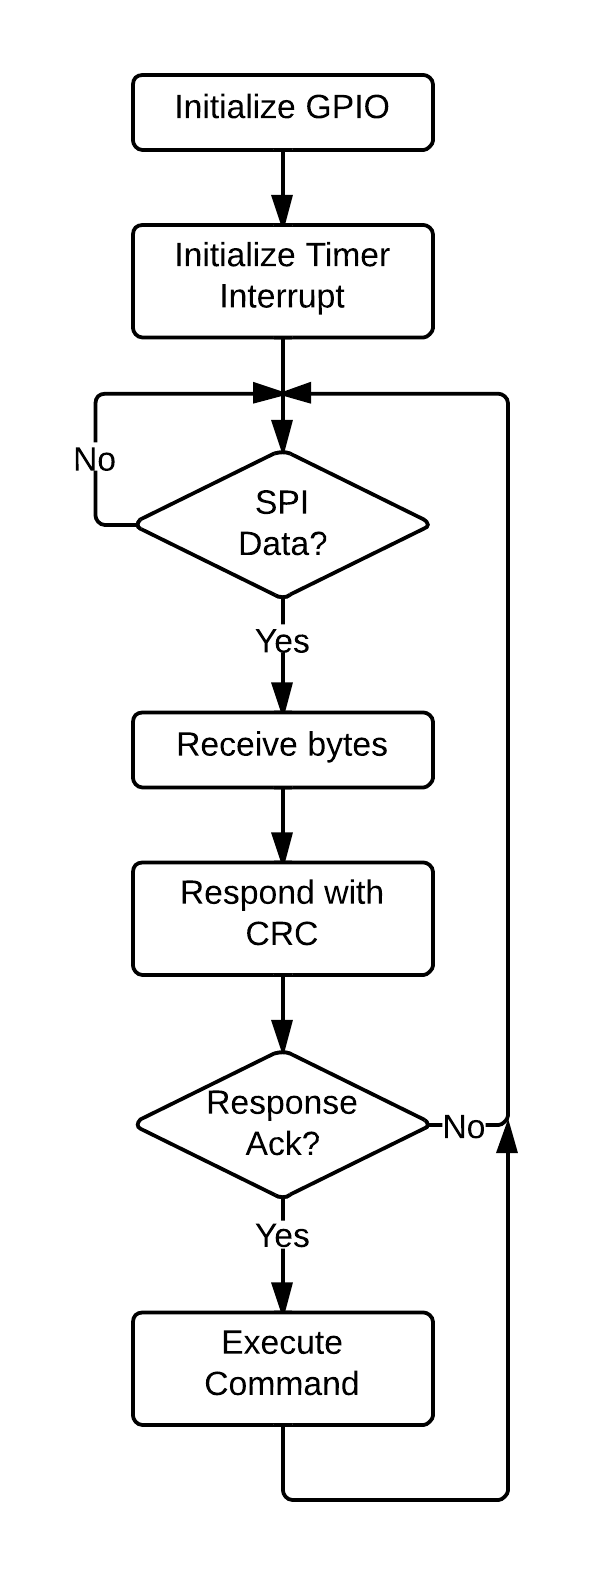
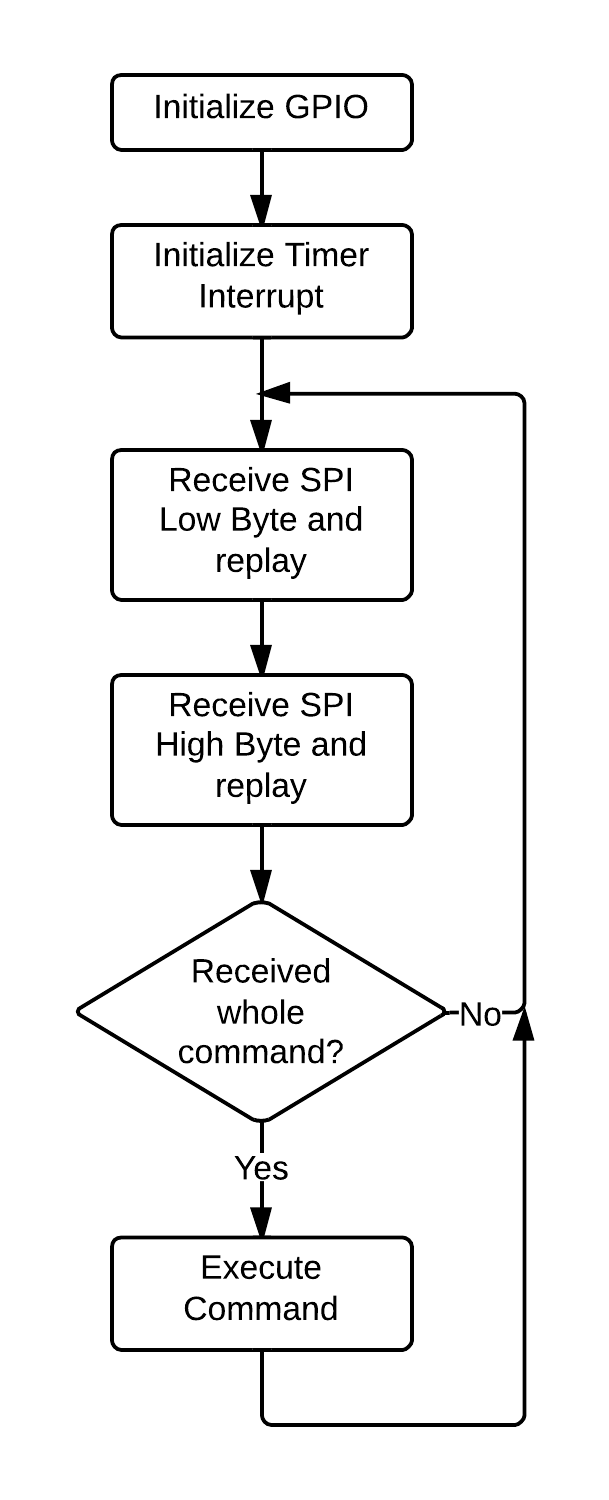
No more references to CRCs.

diff --git a/firmware-listing/firmware-listing.tex b/firmware-listing/firmware-listing.tex
@@ -63,7 +63,7 @@ The C2000 code base uses a combination of polling the \gls{spi} communication de
 A second interrupt is generated whenever the emergency stop line transitions from high-to-low or low-to-high, in which case all motor movement is stopped as quickly as possible.
 The pulse train generation is real-time and must execute code as soon as the auto-reloaded timer expires, so polling for \gls{spi} data can be preempted by the timer interrupt.
 An alternate design would be to use interrupt priority and allow the timer to interrupt the \gls{spi} interrupt, however a polling scheme is less risky and is easier to code.
-Because communication can be interrupted, the \gls{pi} will require the C2000 to respond back with a \gls{crc} to ensure that the entire communication block was received.
+Because communication can be interrupted, the \gls{pi} will require the C2000 to echo back sent data to ensure that the entire communication block was received.
 Figure~\ref{fig:c2000-main} depicts the polling loop for the C2000 and figure~\ref{fig:c2000-pulse} depicts the interrupt routine for the pulse train generation.
 
 \subsection{Raspberry Pi Code Architecture}
@@ -100,14 +100,14 @@ The g-code interpreter has been outlined, flow-charted, and approximately 90\% w
 \subsection{CNC Driver}
 The \gls{cnc} driver project is written in C and is responsible for managing communication channels between the \gls{pi} and C2000 through the \gls{spi} and \gls{uart}.
 The g-code interpreter does not write to the \gls{spi} or \gls{uart} directly because these actions require root privileges, so this project was created to allow a single, small program to run as root, while the larger, more frequently changing programs are run by regular users.
-The \gls{cnc} driver listens to a pipe for commands to send to the C2000 and forwards them through \gls{spi}, verifying the \gls{crc} returned from the C2000.
+The \gls{cnc} driver listens to a pipe for commands to send to the C2000 and forwards them through \gls{spi}, verifying that it is received based on the echo back from the C2000.
 The \gls{cnc} driver also looks for a special command that indicates that the next bytes will be \gls{ti} hex data and the program should reset the C2000 and bootload the device with new code.
 The \gls{cnc} driver has been outlined, flow-charted, and 100\% written and tested.
 
 \subsection{Motor Scheduler}
 The motor scheduler project is written in C and is responsible for listening for commands from the \gls{pi} and generating the pulse trains to the motors.
 The project is based off an algorithm that requires no floating point operations on the C2000 for generating pulses, saving resources and allowing better real-time performance.
-The commands are accepted through \gls{spi} and are acknowledged with a \gls{crc}, with the command format specified in a C header file shared between the g-code interpreter and this project.
+The commands are accepted through \gls{spi} and are acknowledged by echoing back the received data, with the command format specified in a C header file shared between the g-code interpreter and this project.
 The motor scheduler has been outlined, flow-charted, and approximately 65\% written, with all written code being completely tested.
 
 \section{Summary}

diff --git a/firmware-listing/main.tex b/firmware-listing/main.tex
@@ -9,7 +9,6 @@
 \newacronym{ceen}{CEEN}{Computer and Electronics Engineering}
 \newacronym{cnc}{CNC}{Computer Numerical Control}
 \newacronym{cpu}{CPU}{Central Processing Unit}
-\newacronym{crc}{CRC}{Cyclic Redundancy Check}
 \newacronym{dmm}{DMM}{Digital Multi-Meter}
 \newacronym{drc}{DRC}{Design Rules Check}
 \newacronym{dvi}{DVI}{Digital Visual Interface}
